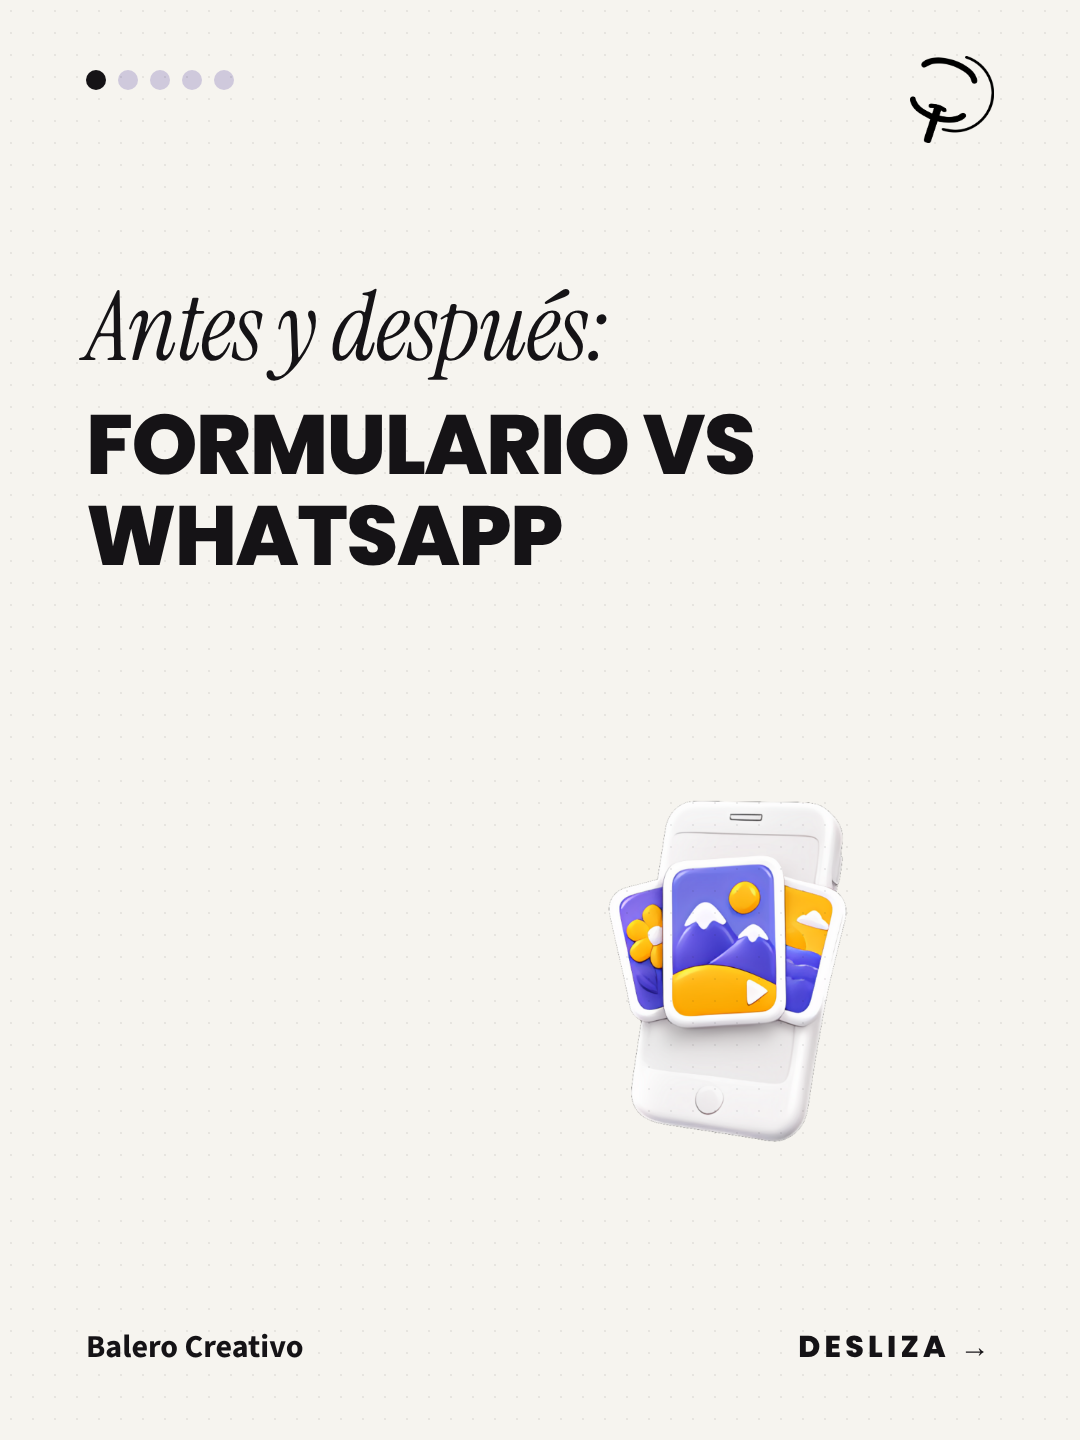
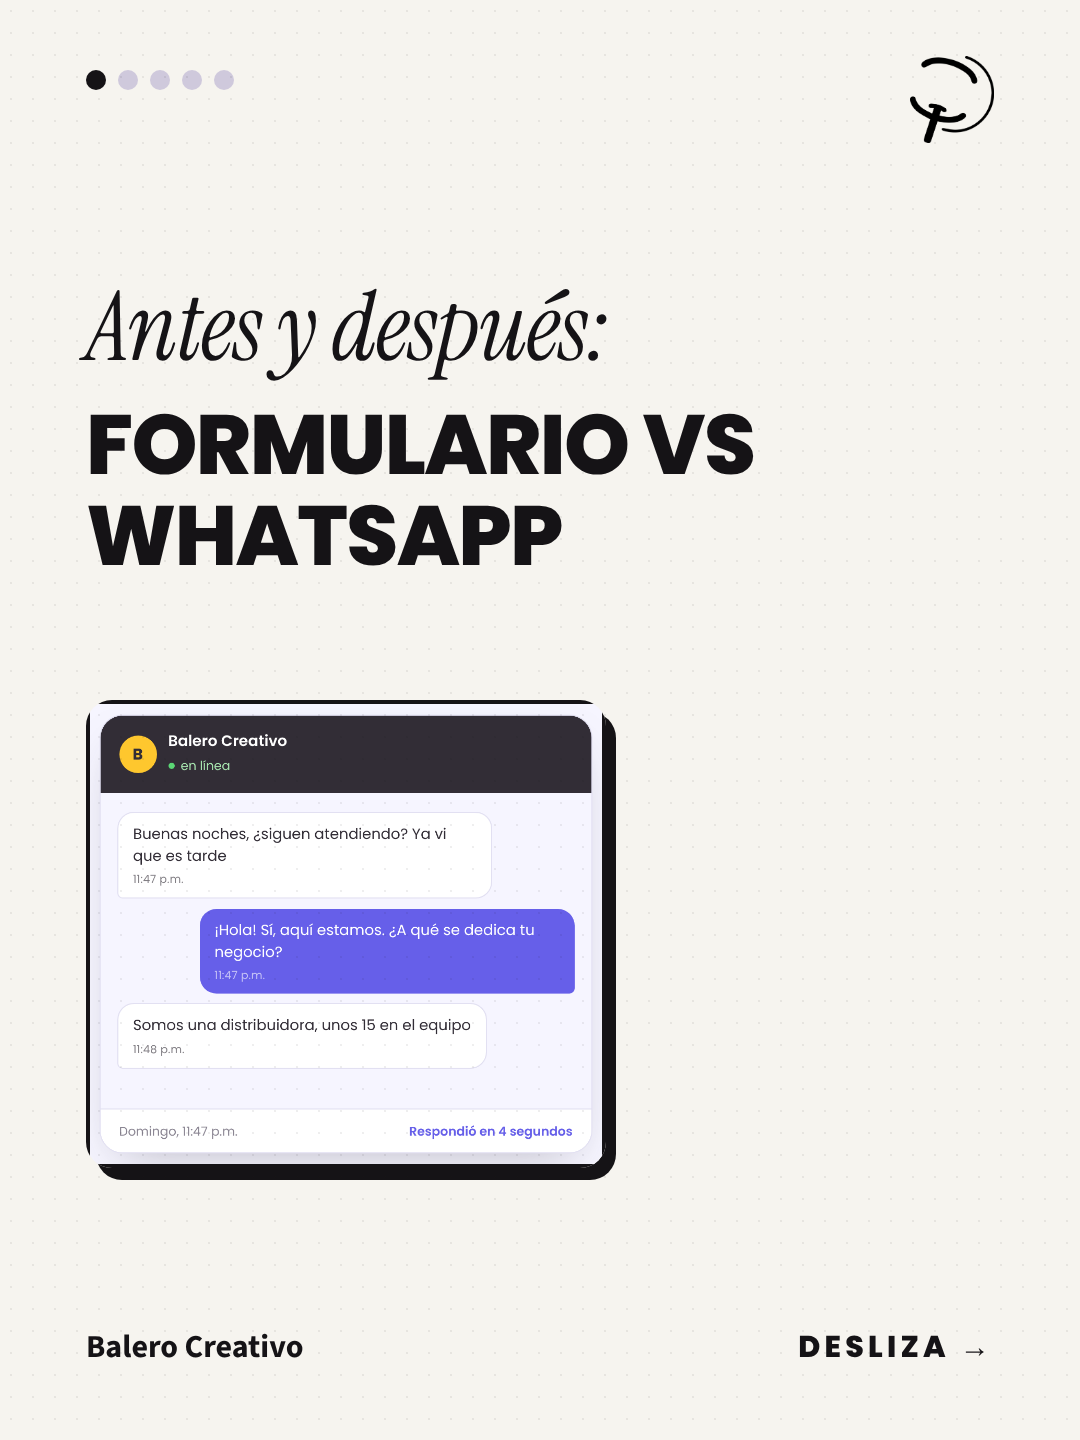
Carrusel antes y después: captura real de la landing de WhatsApp en lugar de ilustración
Claude-Session: https://claude.ai/code/session_01Bq7ZC7FDz5LcdZBgNXTuBm

Changed region(s): [[0.0611, 0.4688, 0.7944, 0.8438], [0.6417, 0.7812, 0.7333, 0.8125]]

diff --git a/clientes/balero/diseno/2026-11/estilo-editorial/semana/antes.html b/clientes/balero/diseno/2026-11/estilo-editorial/semana/antes.html
@@ -60,4 +60,4 @@ body{background:#888}
 .meter{position:absolute;left:86px;right:86px;background:#fff;border:4px solid #151316;border-radius:26px;box-shadow:10px 12px 0 #151316;overflow:hidden}
 
 .bigy{position:absolute;left:86px;font:800 330px/.9 Poppins;background:#FFD23F;padding:10px 30px 24px;letter-spacing:-.04em}
-</style></head><body><div class="s" id="s1"><div class="dots"><i style="background:#151316"></i><i style="background:#cfc9dc"></i><i style="background:#cfc9dc"></i><i style="background:#cfc9dc"></i><i style="background:#cfc9dc"></i></div><img class="logo" src="/home/user/balero/.claude/skills/balero-imagenes/assets/logo-balero.png"><div class="serif" style="position:absolute;left:86px;top:280px;font-size:96px;line-height:1">Antes y después:</div><div class="big" style="top:400px;font-size:84px;line-height:1.08">FORMULARIO VS WHATSAPP</div><img src="/home/user/balero/.claude/skills/balero-imagenes/assets/ilustraciones-nuevas/celular-cut.png" style="position:absolute;left:520px;top:760px;width:430px"><div class="foot"><span>Balero Creativo</span></div><div style="position:absolute;right:86px;bottom:70px;font:800 30px Poppins;letter-spacing:.14em">DESLIZA →</div></div><div class="s" id="s2"><div class="dots"><i style="background:#cfc9dc"></i><i style="background:#151316"></i><i style="background:#cfc9dc"></i><i style="background:#cfc9dc"></i><i style="background:#cfc9dc"></i></div><img class="logo" src="/home/user/balero/.claude/skills/balero-imagenes/assets/logo-balero.png"><div class="chip">ANTES</div><div class="t" style="top:290px;font-size:92px">Un formulario<br>y <span class="serif" style="font-size:1.25em;text-transform:none;font-weight:400;background:#FFD23F;padding:0 18px">días de espera.</span></div><div class="body" style="top:560px;width:880px">Esperas un correo y nadie contesta el mismo día.</div><div class="cmp bad" style="display:flex;align-items:center;top:780px;height:210px"><div class="m">✗</div><div><small>ASÍ NO</small>Un formulario, un correo y días de espera</div></div><div class="foot"><span>Balero Creativo</span></div></div><div class="s" id="s3"><div class="dots"><i style="background:#cfc9dc"></i><i style="background:#cfc9dc"></i><i style="background:#151316"></i><i style="background:#cfc9dc"></i><i style="background:#cfc9dc"></i></div><img class="logo" src="/home/user/balero/.claude/skills/balero-imagenes/assets/logo-balero.png"><div class="chip">DESPUÉS</div><div class="t" style="top:290px;font-size:96px">Escribes y<br>te <span class="serif" style="font-size:1.25em;text-transform:none;font-weight:400;background:#FFD23F;padding:0 18px">contestan.</span></div><div class="body" style="top:560px;width:880px">Alguien responde con una pregunta concreta.</div><div class="cmp good" style="display:flex;align-items:center;top:780px;height:210px"><div class="m">✓</div><div><small>ASÍ SÍ</small>Una respuesta rápida y un siguiente paso</div></div><div class="foot"><span>Balero Creativo</span></div></div><div class="s" id="s4"><div class="dots"><i style="background:#cfc9dc"></i><i style="background:#cfc9dc"></i><i style="background:#cfc9dc"></i><i style="background:#151316"></i><i style="background:#cfc9dc"></i></div><img class="logo" src="/home/user/balero/.claude/skills/balero-imagenes/assets/logo-balero.png"><div class="chip">LO QUE CAMBIA</div><div class="t" style="top:290px;font-size:92px">La charla empieza<br>en el <span class="serif" style="font-size:1.25em;text-transform:none;font-weight:400;background:#FFD23F;padding:0 18px">momento.</span></div><div class="body" style="top:560px;width:880px">No días después, cuando el interés ya se enfrió.</div><img src="/home/user/balero/.claude/skills/balero-imagenes/assets/ilustraciones-nuevas/ruta-cut.png" style="position:absolute;left:470px;top:780px;width:440px"><div class="foot"><span>Balero Creativo</span></div></div><div class="s" id="s5"><div class="dots"><i style="background:#cfc9dc"></i><i style="background:#cfc9dc"></i><i style="background:#cfc9dc"></i><i style="background:#cfc9dc"></i><i style="background:#151316"></i></div><img class="logo" src="/home/user/balero/.claude/skills/balero-imagenes/assets/logo-balero.png"><div class="serif" style="position:absolute;left:86px;top:280px;font-size:96px;line-height:1">¿Cómo llega tu</div><div class="big" style="top:400px;font-size:88px;line-height:1.08">PRIMER CONTACTO?</div><div class="serif" style="position:absolute;left:86px;top:580px;font-size:88px;line-height:1"><span class="hl">Revísalo.</span></div><div class="tape" style="top:800px;font-family:Poppins;font-weight:800;font-size:36px">Diagnóstico gratis de 15 minutos</div><div class="arrow" style="top:800px;transform:translateY(22px)">→</div><div class="body" style="top:980px;width:880px">Escríbenos por mensaje directo.</div><div class="foot"><span>Balero Creativo</span></div><div style="position:absolute;right:86px;bottom:70px;font:800 30px Poppins;letter-spacing:.14em">DESLIZA →</div></div></body></html>
+</style></head><body><div class="s" id="s1"><div class="dots"><i style="background:#151316"></i><i style="background:#cfc9dc"></i><i style="background:#cfc9dc"></i><i style="background:#cfc9dc"></i><i style="background:#cfc9dc"></i></div><img class="logo" src="/home/user/balero/.claude/skills/balero-imagenes/assets/logo-balero.png"><div class="serif" style="position:absolute;left:86px;top:280px;font-size:96px;line-height:1">Antes y después:</div><div class="big" style="top:400px;font-size:84px;line-height:1.08">FORMULARIO VS WHATSAPP</div><img src="real/chat-whatsapp.png" style="position:absolute;left:86px;top:700px;width:520px;height:auto;border-radius:26px;box-shadow:10px 12px 0 #151316"><div class="foot"><span>Balero Creativo</span></div><div style="position:absolute;right:86px;bottom:70px;font:800 30px Poppins;letter-spacing:.14em">DESLIZA →</div></div><div class="s" id="s2"><div class="dots"><i style="background:#cfc9dc"></i><i style="background:#151316"></i><i style="background:#cfc9dc"></i><i style="background:#cfc9dc"></i><i style="background:#cfc9dc"></i></div><img class="logo" src="/home/user/balero/.claude/skills/balero-imagenes/assets/logo-balero.png"><div class="chip">ANTES</div><div class="t" style="top:290px;font-size:92px">Un formulario<br>y <span class="serif" style="font-size:1.25em;text-transform:none;font-weight:400;background:#FFD23F;padding:0 18px">días de espera.</span></div><div class="body" style="top:560px;width:880px">Esperas un correo y nadie contesta el mismo día.</div><div class="cmp bad" style="display:flex;align-items:center;top:780px;height:210px"><div class="m">✗</div><div><small>ASÍ NO</small>Un formulario, un correo y días de espera</div></div><div class="foot"><span>Balero Creativo</span></div></div><div class="s" id="s3"><div class="dots"><i style="background:#cfc9dc"></i><i style="background:#cfc9dc"></i><i style="background:#151316"></i><i style="background:#cfc9dc"></i><i style="background:#cfc9dc"></i></div><img class="logo" src="/home/user/balero/.claude/skills/balero-imagenes/assets/logo-balero.png"><div class="chip">DESPUÉS</div><div class="t" style="top:290px;font-size:96px">Escribes y<br>te <span class="serif" style="font-size:1.25em;text-transform:none;font-weight:400;background:#FFD23F;padding:0 18px">contestan.</span></div><div class="body" style="top:560px;width:880px">Alguien responde con una pregunta concreta.</div><div class="cmp good" style="display:flex;align-items:center;top:780px;height:210px"><div class="m">✓</div><div><small>ASÍ SÍ</small>Una respuesta rápida y un siguiente paso</div></div><div class="foot"><span>Balero Creativo</span></div></div><div class="s" id="s4"><div class="dots"><i style="background:#cfc9dc"></i><i style="background:#cfc9dc"></i><i style="background:#cfc9dc"></i><i style="background:#151316"></i><i style="background:#cfc9dc"></i></div><img class="logo" src="/home/user/balero/.claude/skills/balero-imagenes/assets/logo-balero.png"><div class="chip">LO QUE CAMBIA</div><div class="t" style="top:290px;font-size:92px">La charla empieza<br>en el <span class="serif" style="font-size:1.25em;text-transform:none;font-weight:400;background:#FFD23F;padding:0 18px">momento.</span></div><div class="body" style="top:560px;width:880px">No días después, cuando el interés ya se enfrió.</div><img src="/home/user/balero/.claude/skills/balero-imagenes/assets/ilustraciones-nuevas/ruta-cut.png" style="position:absolute;left:470px;top:780px;width:440px"><div class="foot"><span>Balero Creativo</span></div></div><div class="s" id="s5"><div class="dots"><i style="background:#cfc9dc"></i><i style="background:#cfc9dc"></i><i style="background:#cfc9dc"></i><i style="background:#cfc9dc"></i><i style="background:#151316"></i></div><img class="logo" src="/home/user/balero/.claude/skills/balero-imagenes/assets/logo-balero.png"><div class="serif" style="position:absolute;left:86px;top:280px;font-size:96px;line-height:1">¿Cómo llega tu</div><div class="big" style="top:400px;font-size:88px;line-height:1.08">PRIMER CONTACTO?</div><div class="serif" style="position:absolute;left:86px;top:580px;font-size:88px;line-height:1"><span class="hl">Revísalo.</span></div><div class="tape" style="top:800px;font-family:Poppins;font-weight:800;font-size:36px">Diagnóstico gratis de 15 minutos</div><div class="arrow" style="top:800px;transform:translateY(22px)">→</div><div class="body" style="top:980px;width:880px">Escríbenos por mensaje directo.</div><div class="foot"><span>Balero Creativo</span></div><div style="position:absolute;right:86px;bottom:70px;font:800 30px Poppins;letter-spacing:.14em">DESLIZA →</div></div></body></html>

diff --git a/clientes/balero/diseno/2026-11/semana-16/antes/antes.html b/clientes/balero/diseno/2026-11/semana-16/antes/antes.html
@@ -60,4 +60,4 @@ body{background:#888}
 .meter{position:absolute;left:86px;right:86px;background:#fff;border:4px solid #151316;border-radius:26px;box-shadow:10px 12px 0 #151316;overflow:hidden}
 
 .bigy{position:absolute;left:86px;font:800 330px/.9 Poppins;background:#FFD23F;padding:10px 30px 24px;letter-spacing:-.04em}
-</style></head><body><div class="s" id="s1"><div class="dots"><i style="background:#151316"></i><i style="background:#cfc9dc"></i><i style="background:#cfc9dc"></i><i style="background:#cfc9dc"></i><i style="background:#cfc9dc"></i></div><img class="logo" src="/home/user/balero/.claude/skills/balero-imagenes/assets/logo-balero.png"><div class="serif" style="position:absolute;left:86px;top:280px;font-size:96px;line-height:1">Antes y después:</div><div class="big" style="top:400px;font-size:84px;line-height:1.08">FORMULARIO VS WHATSAPP</div><img src="/home/user/balero/.claude/skills/balero-imagenes/assets/ilustraciones-nuevas/celular-cut.png" style="position:absolute;left:520px;top:760px;width:430px"><div class="foot"><span>Balero Creativo</span></div><div style="position:absolute;right:86px;bottom:70px;font:800 30px Poppins;letter-spacing:.14em">DESLIZA →</div></div><div class="s" id="s2"><div class="dots"><i style="background:#cfc9dc"></i><i style="background:#151316"></i><i style="background:#cfc9dc"></i><i style="background:#cfc9dc"></i><i style="background:#cfc9dc"></i></div><img class="logo" src="/home/user/balero/.claude/skills/balero-imagenes/assets/logo-balero.png"><div class="chip">ANTES</div><div class="t" style="top:290px;font-size:92px">Un formulario<br>y <span class="serif" style="font-size:1.25em;text-transform:none;font-weight:400;background:#FFD23F;padding:0 18px">días de espera.</span></div><div class="body" style="top:560px;width:880px">Esperas un correo y nadie contesta el mismo día.</div><div class="cmp bad" style="display:flex;align-items:center;top:780px;height:210px"><div class="m">✗</div><div><small>ASÍ NO</small>Un formulario, un correo y días de espera</div></div><div class="foot"><span>Balero Creativo</span></div></div><div class="s" id="s3"><div class="dots"><i style="background:#cfc9dc"></i><i style="background:#cfc9dc"></i><i style="background:#151316"></i><i style="background:#cfc9dc"></i><i style="background:#cfc9dc"></i></div><img class="logo" src="/home/user/balero/.claude/skills/balero-imagenes/assets/logo-balero.png"><div class="chip">DESPUÉS</div><div class="t" style="top:290px;font-size:96px">Escribes y<br>te <span class="serif" style="font-size:1.25em;text-transform:none;font-weight:400;background:#FFD23F;padding:0 18px">contestan.</span></div><div class="body" style="top:560px;width:880px">Alguien responde con una pregunta concreta.</div><div class="cmp good" style="display:flex;align-items:center;top:780px;height:210px"><div class="m">✓</div><div><small>ASÍ SÍ</small>Una respuesta rápida y un siguiente paso</div></div><div class="foot"><span>Balero Creativo</span></div></div><div class="s" id="s4"><div class="dots"><i style="background:#cfc9dc"></i><i style="background:#cfc9dc"></i><i style="background:#cfc9dc"></i><i style="background:#151316"></i><i style="background:#cfc9dc"></i></div><img class="logo" src="/home/user/balero/.claude/skills/balero-imagenes/assets/logo-balero.png"><div class="chip">LO QUE CAMBIA</div><div class="t" style="top:290px;font-size:92px">La charla empieza<br>en el <span class="serif" style="font-size:1.25em;text-transform:none;font-weight:400;background:#FFD23F;padding:0 18px">momento.</span></div><div class="body" style="top:560px;width:880px">No días después, cuando el interés ya se enfrió.</div><img src="/home/user/balero/.claude/skills/balero-imagenes/assets/ilustraciones-nuevas/ruta-cut.png" style="position:absolute;left:470px;top:780px;width:440px"><div class="foot"><span>Balero Creativo</span></div></div><div class="s" id="s5"><div class="dots"><i style="background:#cfc9dc"></i><i style="background:#cfc9dc"></i><i style="background:#cfc9dc"></i><i style="background:#cfc9dc"></i><i style="background:#151316"></i></div><img class="logo" src="/home/user/balero/.claude/skills/balero-imagenes/assets/logo-balero.png"><div class="serif" style="position:absolute;left:86px;top:280px;font-size:96px;line-height:1">¿Cómo llega tu</div><div class="big" style="top:400px;font-size:88px;line-height:1.08">PRIMER CONTACTO?</div><div class="serif" style="position:absolute;left:86px;top:580px;font-size:88px;line-height:1"><span class="hl">Revísalo.</span></div><div class="tape" style="top:800px;font-family:Poppins;font-weight:800;font-size:36px">Diagnóstico gratis de 15 minutos</div><div class="arrow" style="top:800px;transform:translateY(22px)">→</div><div class="body" style="top:980px;width:880px">Escríbenos por mensaje directo.</div><div class="foot"><span>Balero Creativo</span></div><div style="position:absolute;right:86px;bottom:70px;font:800 30px Poppins;letter-spacing:.14em">DESLIZA →</div></div></body></html>
+</style></head><body><div class="s" id="s1"><div class="dots"><i style="background:#151316"></i><i style="background:#cfc9dc"></i><i style="background:#cfc9dc"></i><i style="background:#cfc9dc"></i><i style="background:#cfc9dc"></i></div><img class="logo" src="/home/user/balero/.claude/skills/balero-imagenes/assets/logo-balero.png"><div class="serif" style="position:absolute;left:86px;top:280px;font-size:96px;line-height:1">Antes y después:</div><div class="big" style="top:400px;font-size:84px;line-height:1.08">FORMULARIO VS WHATSAPP</div><img src="real/chat-whatsapp.png" style="position:absolute;left:86px;top:700px;width:520px;height:auto;border-radius:26px;box-shadow:10px 12px 0 #151316"><div class="foot"><span>Balero Creativo</span></div><div style="position:absolute;right:86px;bottom:70px;font:800 30px Poppins;letter-spacing:.14em">DESLIZA →</div></div><div class="s" id="s2"><div class="dots"><i style="background:#cfc9dc"></i><i style="background:#151316"></i><i style="background:#cfc9dc"></i><i style="background:#cfc9dc"></i><i style="background:#cfc9dc"></i></div><img class="logo" src="/home/user/balero/.claude/skills/balero-imagenes/assets/logo-balero.png"><div class="chip">ANTES</div><div class="t" style="top:290px;font-size:92px">Un formulario<br>y <span class="serif" style="font-size:1.25em;text-transform:none;font-weight:400;background:#FFD23F;padding:0 18px">días de espera.</span></div><div class="body" style="top:560px;width:880px">Esperas un correo y nadie contesta el mismo día.</div><div class="cmp bad" style="display:flex;align-items:center;top:780px;height:210px"><div class="m">✗</div><div><small>ASÍ NO</small>Un formulario, un correo y días de espera</div></div><div class="foot"><span>Balero Creativo</span></div></div><div class="s" id="s3"><div class="dots"><i style="background:#cfc9dc"></i><i style="background:#cfc9dc"></i><i style="background:#151316"></i><i style="background:#cfc9dc"></i><i style="background:#cfc9dc"></i></div><img class="logo" src="/home/user/balero/.claude/skills/balero-imagenes/assets/logo-balero.png"><div class="chip">DESPUÉS</div><div class="t" style="top:290px;font-size:96px">Escribes y<br>te <span class="serif" style="font-size:1.25em;text-transform:none;font-weight:400;background:#FFD23F;padding:0 18px">contestan.</span></div><div class="body" style="top:560px;width:880px">Alguien responde con una pregunta concreta.</div><div class="cmp good" style="display:flex;align-items:center;top:780px;height:210px"><div class="m">✓</div><div><small>ASÍ SÍ</small>Una respuesta rápida y un siguiente paso</div></div><div class="foot"><span>Balero Creativo</span></div></div><div class="s" id="s4"><div class="dots"><i style="background:#cfc9dc"></i><i style="background:#cfc9dc"></i><i style="background:#cfc9dc"></i><i style="background:#151316"></i><i style="background:#cfc9dc"></i></div><img class="logo" src="/home/user/balero/.claude/skills/balero-imagenes/assets/logo-balero.png"><div class="chip">LO QUE CAMBIA</div><div class="t" style="top:290px;font-size:92px">La charla empieza<br>en el <span class="serif" style="font-size:1.25em;text-transform:none;font-weight:400;background:#FFD23F;padding:0 18px">momento.</span></div><div class="body" style="top:560px;width:880px">No días después, cuando el interés ya se enfrió.</div><img src="/home/user/balero/.claude/skills/balero-imagenes/assets/ilustraciones-nuevas/ruta-cut.png" style="position:absolute;left:470px;top:780px;width:440px"><div class="foot"><span>Balero Creativo</span></div></div><div class="s" id="s5"><div class="dots"><i style="background:#cfc9dc"></i><i style="background:#cfc9dc"></i><i style="background:#cfc9dc"></i><i style="background:#cfc9dc"></i><i style="background:#151316"></i></div><img class="logo" src="/home/user/balero/.claude/skills/balero-imagenes/assets/logo-balero.png"><div class="serif" style="position:absolute;left:86px;top:280px;font-size:96px;line-height:1">¿Cómo llega tu</div><div class="big" style="top:400px;font-size:88px;line-height:1.08">PRIMER CONTACTO?</div><div class="serif" style="position:absolute;left:86px;top:580px;font-size:88px;line-height:1"><span class="hl">Revísalo.</span></div><div class="tape" style="top:800px;font-family:Poppins;font-weight:800;font-size:36px">Diagnóstico gratis de 15 minutos</div><div class="arrow" style="top:800px;transform:translateY(22px)">→</div><div class="body" style="top:980px;width:880px">Escríbenos por mensaje directo.</div><div class="foot"><span>Balero Creativo</span></div><div style="position:absolute;right:86px;bottom:70px;font:800 30px Poppins;letter-spacing:.14em">DESLIZA →</div></div></body></html>

diff --git a/clientes/balero/diseno/2026-11/estilo-editorial/semana/defs.py b/clientes/balero/diseno/2026-11/estilo-editorial/semana/defs.py
@@ -198,7 +198,7 @@ tiempo=[
 ]
 def cmpH16(top,cls,sym,label,txt,h=230): return cmp(top,cls,sym,label,txt,h).replace('style="top','style="display:flex;align-items:center;top',1)
 antes=[
- (serif('Antes y después:',280,96)+big('FORMULARIO VS WHATSAPP',400,84)+ilu16('celular',520,760,430), FD),
+ (serif('Antes y después:',280,96)+big('FORMULARIO VS WHATSAPP',400,84)+f'<img src="real/chat-whatsapp.png" style="position:absolute;left:86px;top:700px;width:520px;height:auto;border-radius:26px;box-shadow:10px 12px 0 #151316">', FD),
  (chip('ANTES')+title('Un formulario','y '+hl('días de espera.'),92)+body('Esperas un correo y nadie contesta el mismo día.',560)+
    cmpH16(780,'bad','✗','ASÍ NO','Un formulario, un correo y días de espera',210), F),
  (chip('DESPUÉS')+title('Escribes y','te '+hl('contestan.'),96)+body('Alguien responde con una pregunta concreta.',560)+
